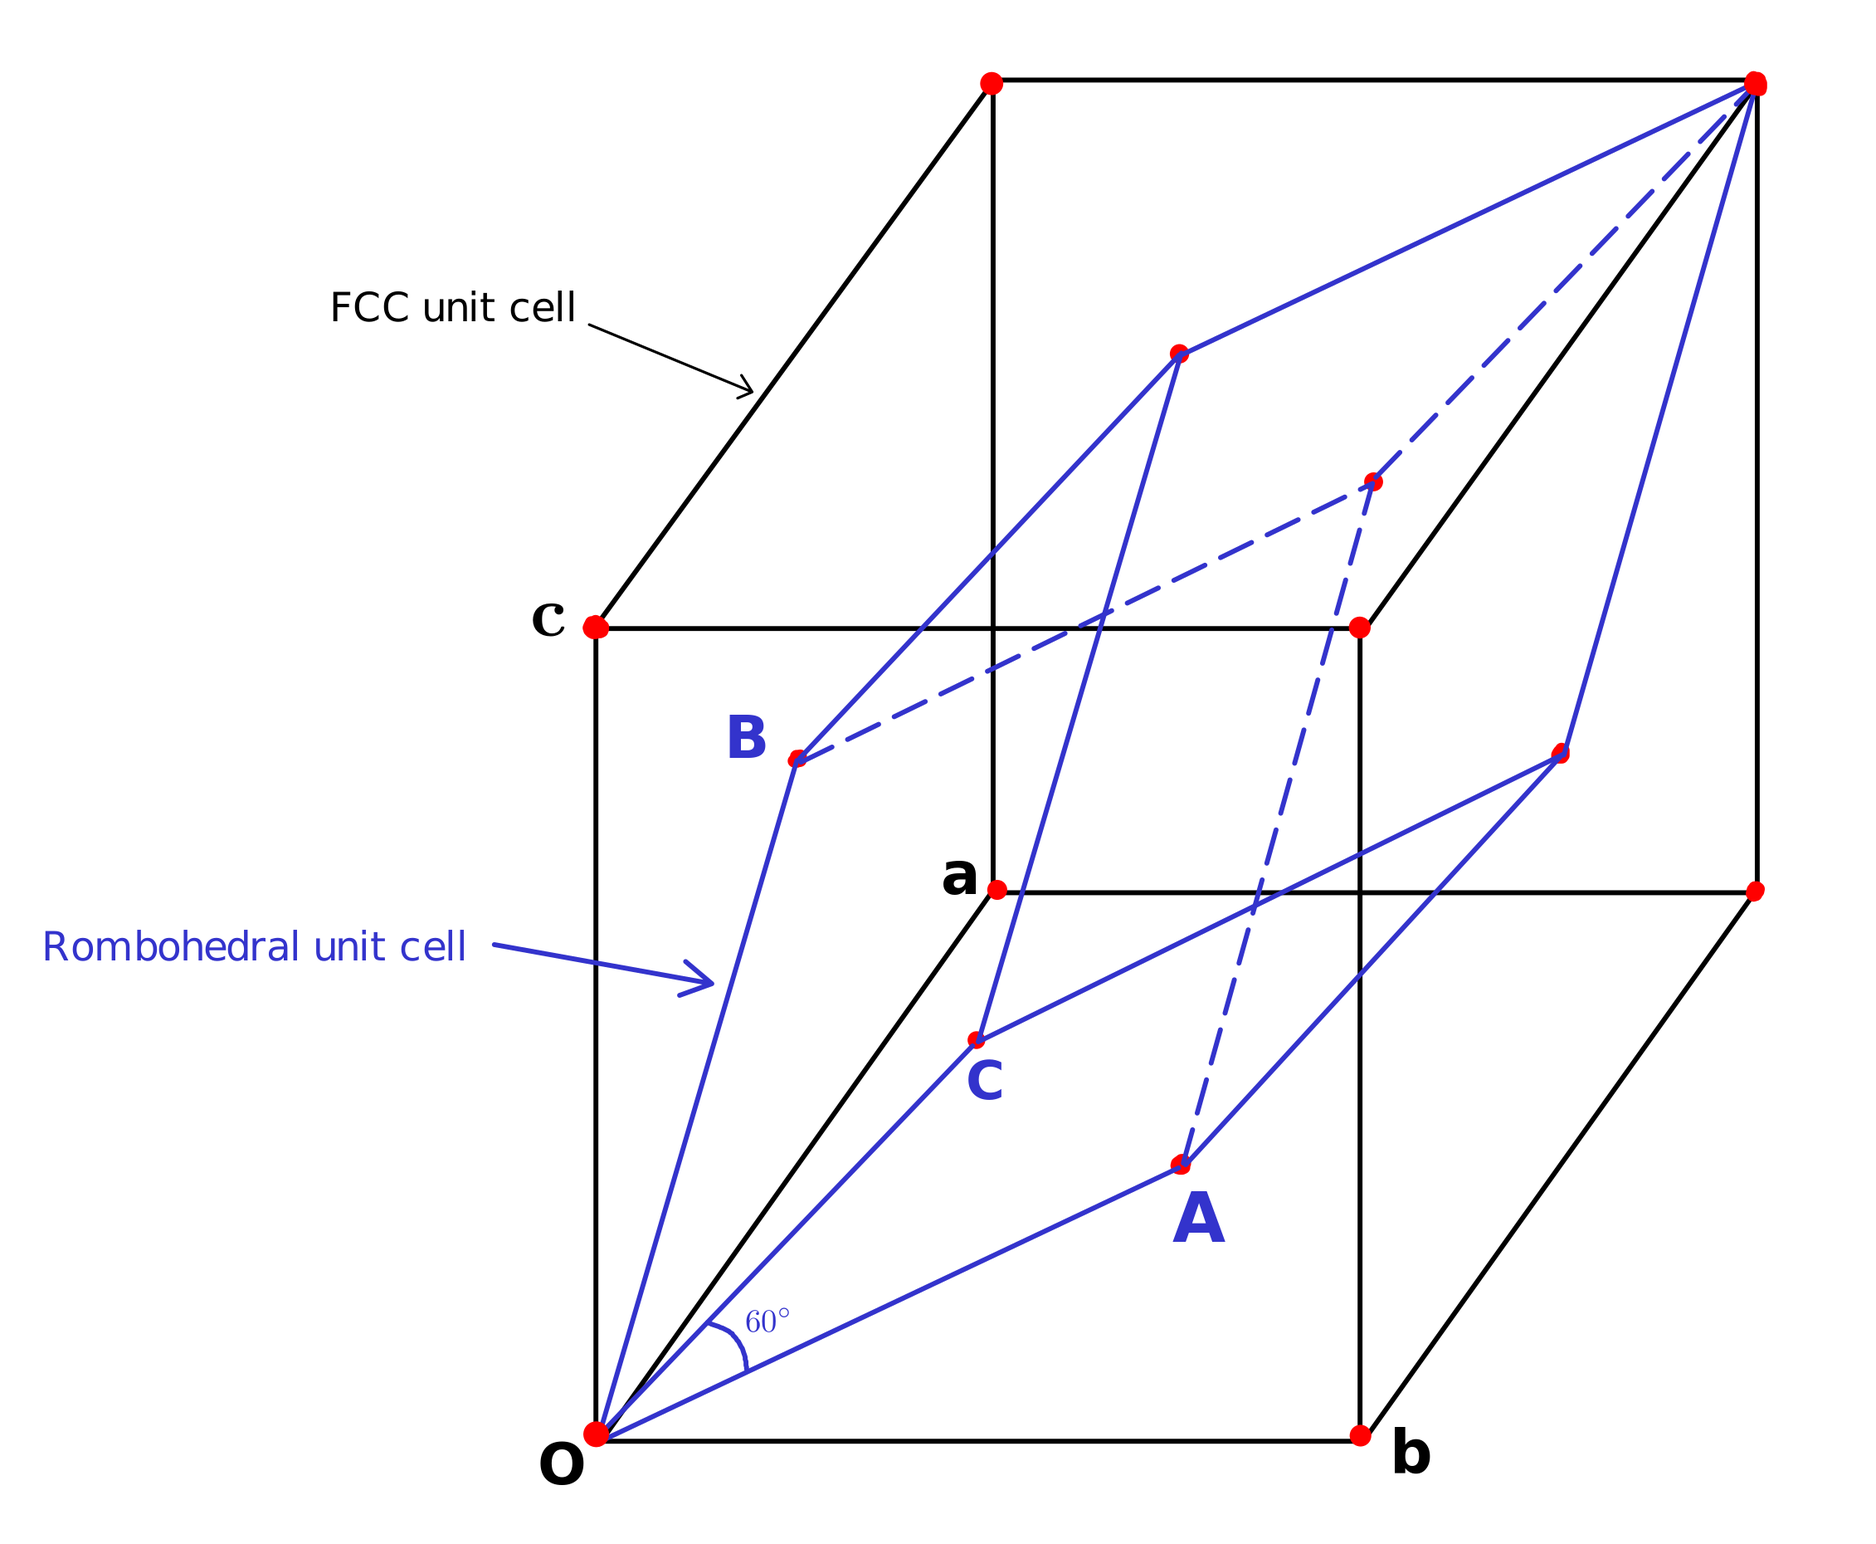
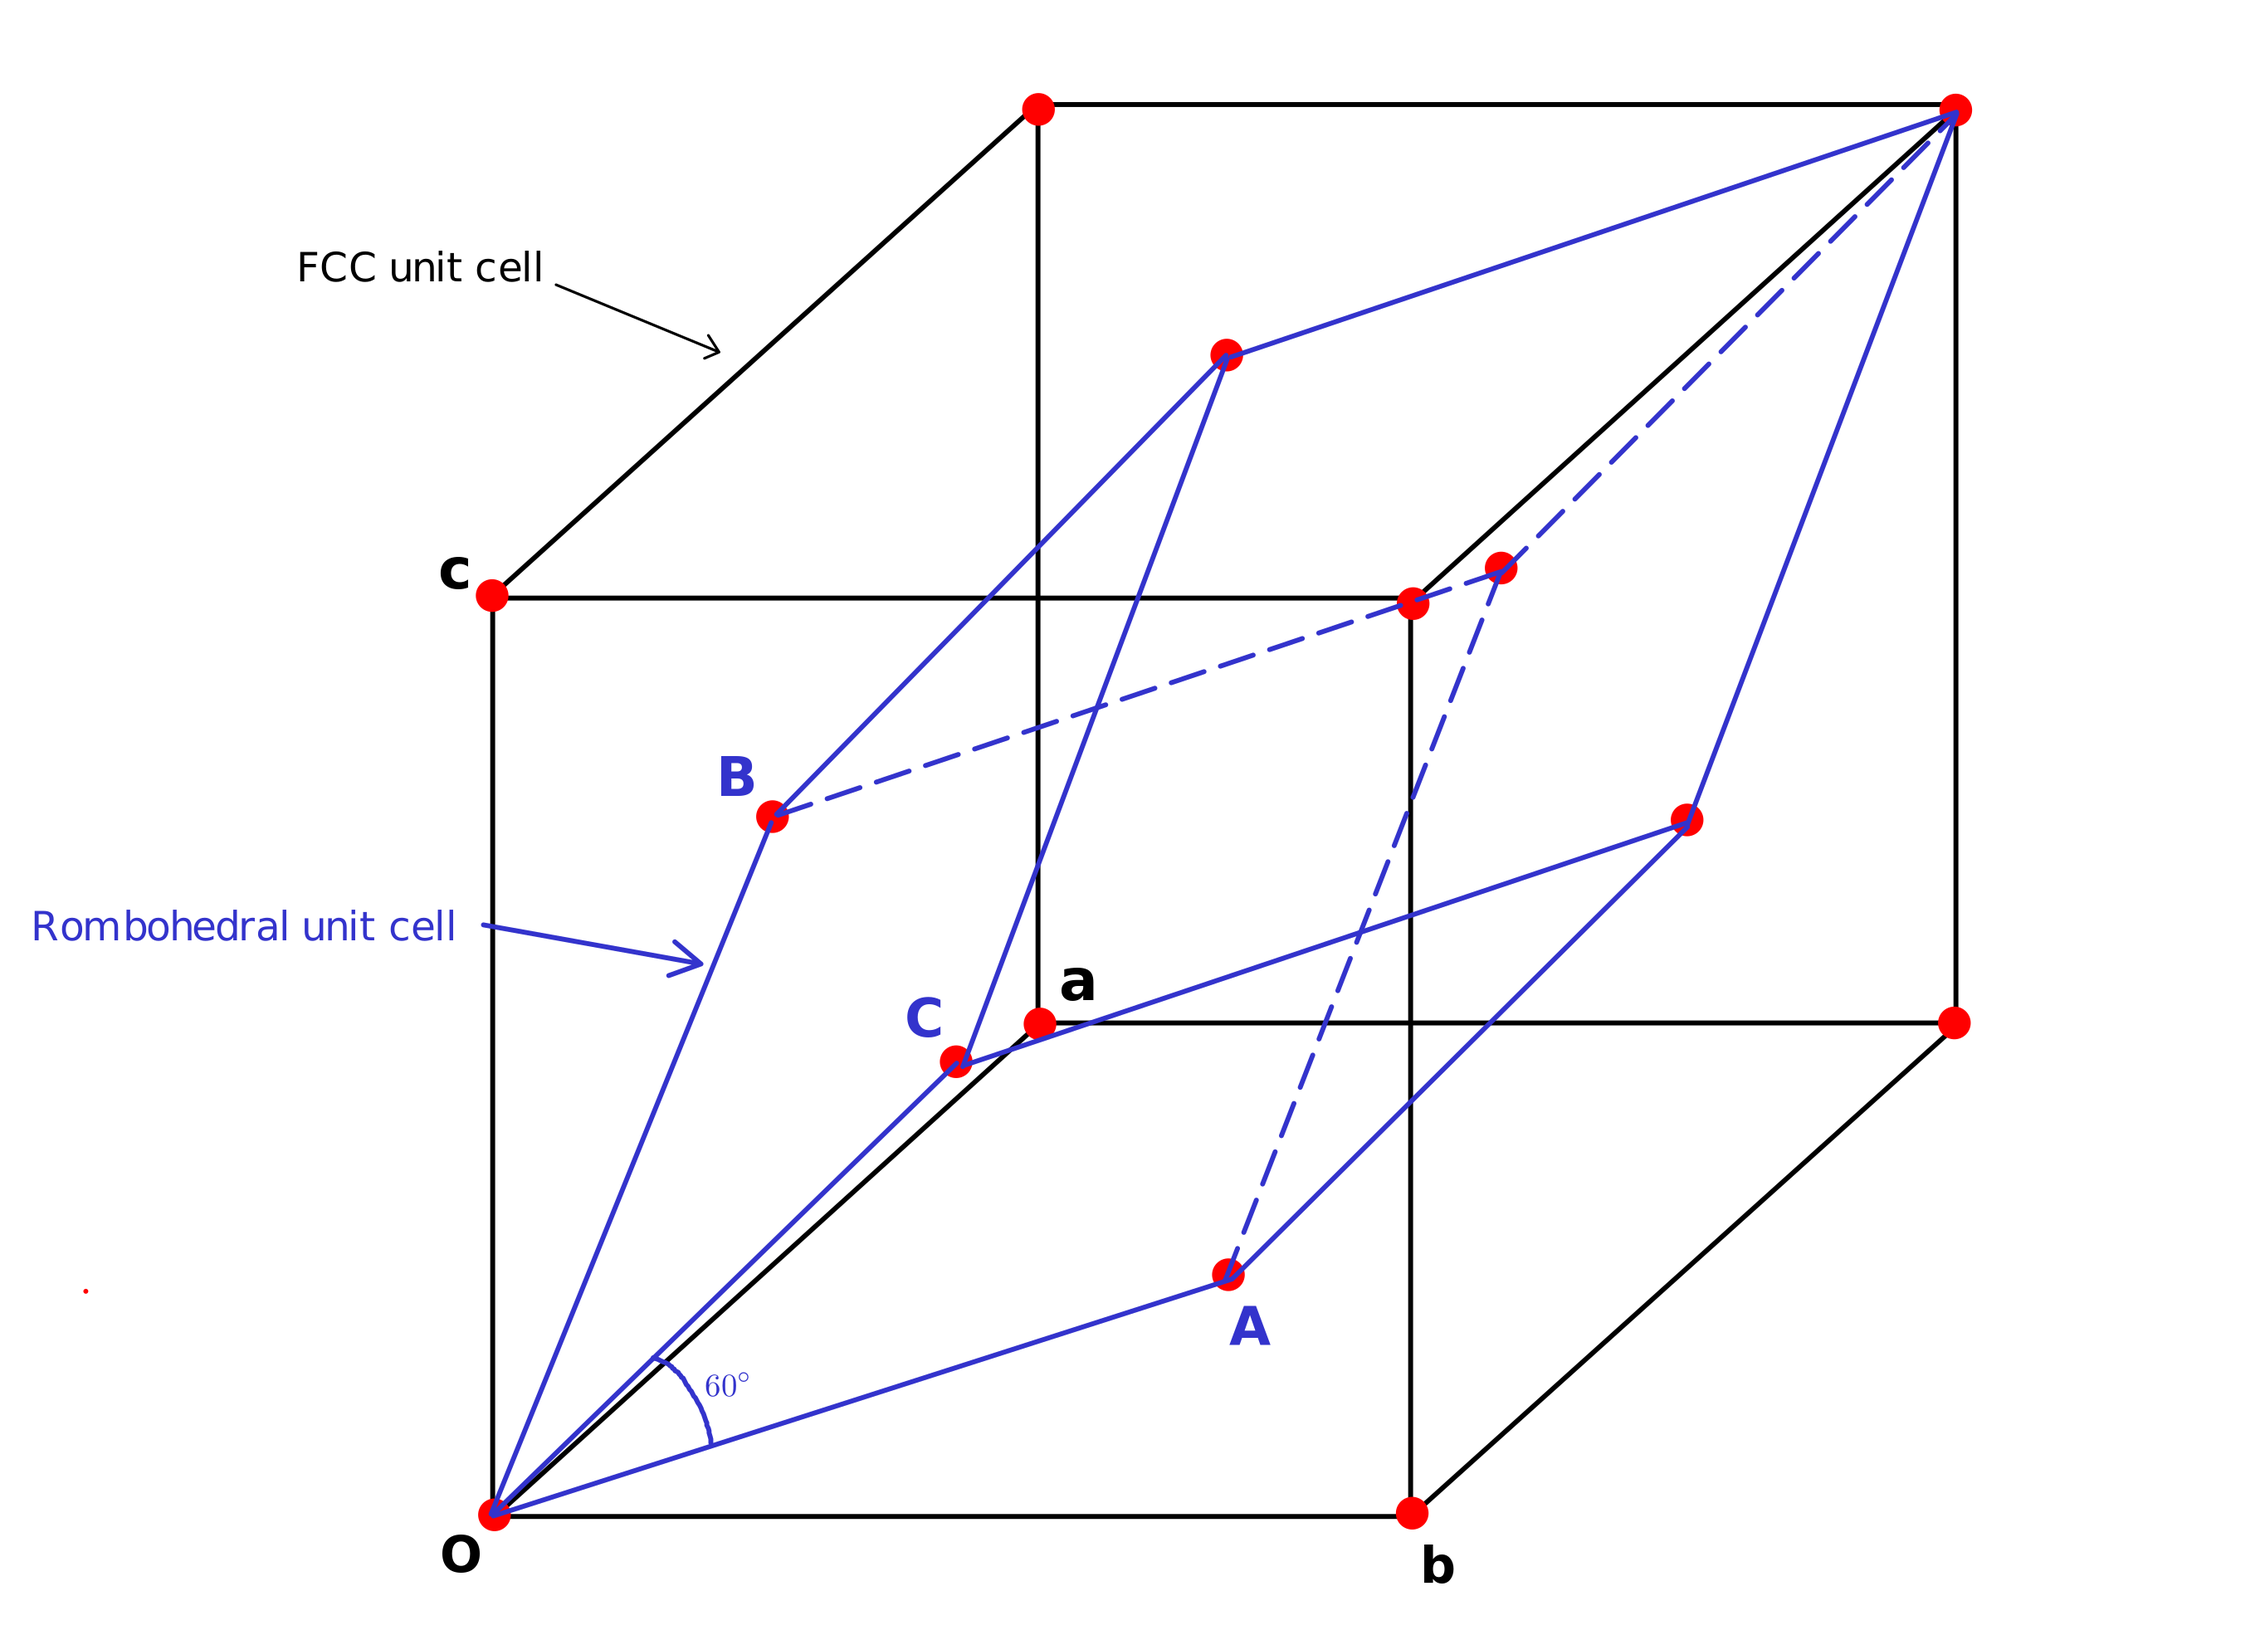
Cleanup 2/n

diff --git a/scxrd_experimentation.tex b/scxrd_experimentation.tex
@@ -12,11 +12,11 @@ At the time of writing, there are two major diffractometer manufacturers in the 
 	
 Both of these manufacturers provide single crystal as well as powder X-ray diffractometers. They have their own software for controlling the diffractometers during the experiment, as well as for analysis, indexing and structure solution of the data recorded by it.
 
-Data refinement and structure solution are done through pre-programmed software nowadays, and it would really not be possible to go into the full details of each and every software and how data refinement and structure indexing are done. We are going to scratch the surface and very briefly mention an approximate procedure that is followed; for details, the reader is advised to go through any books dealing in X-ray crystallography from the experimental aspect, like \cite{Cullity2014}. The procedure that we mention is primarily taken from \cite{Chowdhury2022} and based on a 4-circle single crystal diffractometer from Rigaku Oxford Diffraction, which also has a cryosystem from Oxford Cryosystems for maintaining the temperature of the crystal at cryogenic scales, if necessary, and a $CO_2$ laser for carrying out in-situ crystallization.
+Data refinement and structure solution are done through pre-programmed software nowadays, and it would really not be possible to go into the full details of each and every software and how data refinement and structure indexing are done. We are going to scratch the surface and very briefly mention an approximate procedure that is followed; for details, the reader is advised to go through any books dealing in X-ray crystallography from the experimental aspect, like \cite{Cullity2014}. The procedure that we mention is primarily taken from \cite{Chowdhury2022} and based on a 4-circle single crystal diffractometer from Rigaku Oxford Diffraction, which also has a cryosystem from Oxford Cryosystems for maintaining the temperature of the crystal at cryogenic scales, if necessary, and a $CO_2$ laser for carrying out in situ crystallization.
 
 All diffractometers come with an optical microscope and a video camera through which the crystal can be viewed in a software. The first step after mounting the crystal is \bfnt{centring the crystal}. This is highly essential and should be done precisely, because during the experiment, the crystal would be rotated through various angles, and it is necessary to make sure that there is no position in which the crystal does not receive the X-ray beam. The crystal is rotated through the centre, left, right and top orientations (w.r.t. the microscope) using the control software, and the screws on the goniometer head are used to move the crystal, which is again observed on the software to make sure that the crystal is centred.
 
-Next step is to capture a \bfnt{rotation photograph}. For this, we use a preset 0 position, select $\phi$ to be rotated through $2\pi,$ and record the data.
+Next step is to capture a \bfnt{rotation photograph}. For this, we use a preset zero position, select $\phi$ to be rotated through $2\pi,$ and record the data.
 
 Based on the rotation photograph generated by the software, we may have to change the exposure time if spots are overlapped. To do this, we take a still photograph of a certain exposure time and check if the spots are well separated.
 
@@ -24,15 +24,15 @@ After finding a good exposure time, we again execute a preset scanning strategy 
 
 The software gives us the unit cell parameters calculated using the chosen methods, along with a score. If the data is good, the three methods should give nearly the same values, though the determined unit cell might be different. We choose the algorithm that has the highest score, or the unit cell with the highest symmetry, and thereafter refine the data. We can decrease the tolerance if we want to include more number of reflections. At this stage, different histograms can be viewed. A single tall peak in the rotation angle histogram tells us that our crystal was properly centred, while a Gaussian-like distribution indicates that the centring was not perfect. Histograms can be viewed for $h$, $k$ and $\ell$ values, through which we can learn whether our crystal was truly a good single crystal. Thereafter, the software tells us the possible Bravais lattices with figures of merit for each.
 
-Next, we refine the data once again. At this stage, we can \bfnt{view the reflections on the reciprocal lattice} using the "Reciprocal lattice viewer". For a good single crystal, the spots should appear perfectly aligned with each other in a grid when viewed along the three reciprocal lattice axes. We can select and remove any spots that appear to be mis-aligned at this stage.
+Next, we refine the data once again. At this stage, we can \bfnt{view the reflections on the reciprocal lattice} using the ``Reciprocal lattice viewer". For a good single crystal, the spots should appear perfectly aligned with each other in a grid when viewed along the three reciprocal lattice axes. We can select and remove any spots that appear to be mis-aligned at this stage.
 
-Now we are ready to collect the main data. We go to the ``Data Collection Strategy'' module, and choose the resolution that we want, and the symmetry. We can just choose between ``Chiral'',  ``Centrosymmetry" and different Laue groups. The software also asks about the detector distance that should be used.
+Now we are ready to collect the main data. We go to the ``Data Collection Strategy'' module, and choose the resolution that we want, and the symmetry. We can just choose between `chiral',  `centrosymmetry' and different Laue groups. The software also asks about the detector distance that should be used.
 
 Based on our input, the software will compute the best data collection strategy, and present us with a number of runs. Each run collects data upto a certain completeness level, which is shown to us. If we set the frame width ($\Delta \omega$) and the exposure time, the software will also tell us how much time is needed for each of the runs. Each run sweeps a certain diffractometer axis with other axes fixed.
 
 Now, we go to the ``Experiment'' module and ``Append'' the strategy. We must validate the strategies to make sure that the diffractometer collision limits are not exceeded. Once the strategies are validated, we can start the data collection.
 
-The recorded data is stored in files such that each file corresponds to one frame. Two consecutive frames have a difference of $\Delta \omega.$ We open the \texttt{.par} file in a data management software like Crys Alis Pro. First, we re-calculate the unit cell parameters. Next, we view the spots in the reciprocal lattice viewer, and remove the sets of misaligned spots. In most cases, the software will already group the misaligned spots, and we just have to remove them by de-selecting the group.
+The recorded data is stored in files such that each file corresponds to one frame. Two consecutive frames have a difference of $\Delta \omega.$ We open the \texttt{.par} file in a data management software like \texttt{Crys Alis Pro}. First, we re-calculate the unit cell parameters. Next, we view the spots in the reciprocal lattice viewer, and remove the sets of misaligned spots. In most cases, the software will already group the misaligned spots, and we just have to remove them by de-selecting the group.
 
 Using this same software, we can perform data reduction using various strategies, and at the end of this process, the software will ask us to choose the lattice type and the space group from a set of options. We are also required to enter an approximate formula of the crystal molecule.
 

diff --git a/xrd_types.tex b/xrd_types.tex
@@ -60,7 +60,7 @@ There are two variables in Bragg's Law: $\theta$ and $\lambda,$ while $d_{hk\ell
 %		
 		    \item \textit{Oscillation method}: The crystal is oscillated about a mean position by a certain degree. During the oscillation, different reciprocal lattice points come on the surface of Ewald's sphere, and momentarily a diffracted beam is generated, which is recorded by a cylindrical detector. As the size of real space unit cell grows, the reciprocal lattice points come closer and closer, and often overlap for complex biological molecules.
 		    
-		    \item \textit{Rotation method}: The crystal is slowly rotated by $2\pi$ about the axis it is mounted on the diffractometer, thereby giving us the rotation photograph of the crystal. This has been discussed under "Selection of crystal" in SCXRD.
+		    \item \textit{Rotation method}: The crystal is slowly rotated by $2\pi$ about the axis it is mounted on the diffractometer, thereby giving us the rotation photograph of the crystal. This has been discussed under ``Selection of crystal" in SCXRD.
 		    
 		    \item \textit{Precession method}: The crystal and the film are rotated in a particular direction slowly so that all the reciprocal lattice points at a particular plane (or ``level'') fall on the circumference of Ewald's sphere.
 		    

diff --git a/xrd_physics.tex b/xrd_physics.tex
@@ -315,7 +315,7 @@ Sir William Henry Bragg and William Lawrence Bragg furthered the physics of X-ra
 	
 	\begin{figure}
 	\centering
-	\includegraphics[scale=0.15]{fcc_lattice.png}
+	\includegraphics[scale=0.12]{fcc_lattice.png}
 	\caption{\label{fig:fcc_fr}Cubic lattice with conventional face-centred unit cell, and a primitive rhombohedral unit cell.}
 	\end{figure}
 	

diff --git a/generating_x-rays.tex b/generating_x-rays.tex
@@ -2,7 +2,7 @@
 
 \begin{figure}
 	\centering
-	\includegraphics[width=\textwidth]{xray_tube.png}
+	\includegraphics[scale=0.14]{xray_tube.png}
 	\caption{\label{fig:xray_tube}Schematic of a X-ray tube.}
 \end{figure}
 

diff --git a/radiation_choice.tex b/radiation_choice.tex
@@ -1,7 +1,5 @@
 \section{The Choice of radiation}
 	
-	week 4, lec - 21 + week 5, lec - 22.
-	
 The maximum value of $\sin \theta = 1$ $\implies \theta_\mathrm{max} = \SI{90}{\degree}.$
 
 \begin{align}

diff --git a/main.tex b/main.tex
@@ -115,6 +115,8 @@ lbl/.default=south
 		
 	\input{xrd_in_nano}
 	
+	\medskip
+	
 	%\bibliographystyle{plain}
 	%\bibliography{bibliography}
 	\printbibliography
